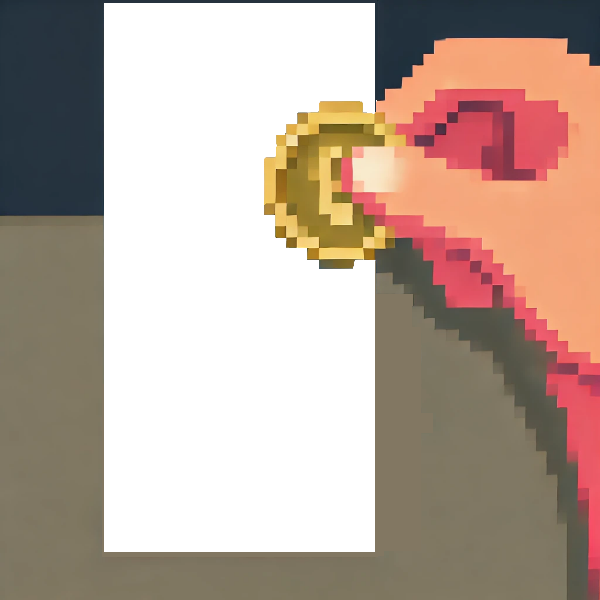
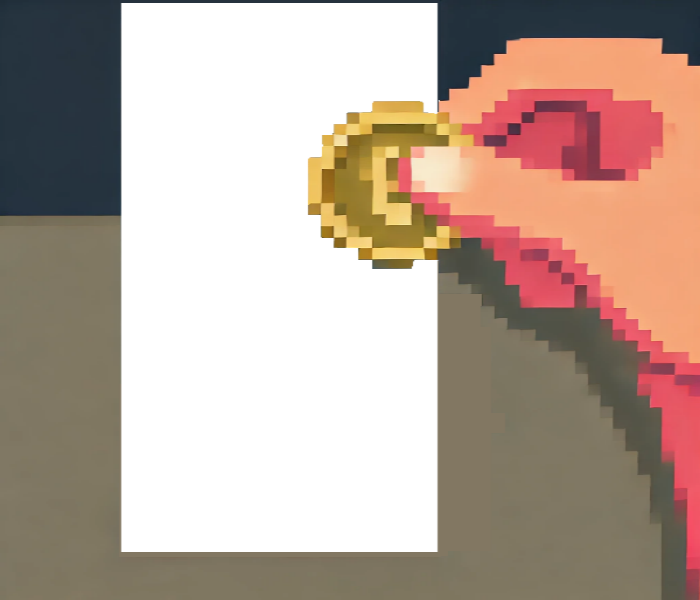
updates

diff --git a/internal/game.go b/internal/game.go
@@ -337,14 +337,14 @@ func (g *Game) drawScratchingTicket(screen *ebiten.Image) {
 	ticketAsset := TicketAssets[ticket.Name]
 
 	doptions := &ebiten.DrawImageOptions{}
-	doptions.GeoM.Scale(271/float64(ticketAsset.Bounds().Dx()), 549/float64(ticketAsset.Bounds().Dy()))
-	doptions.GeoM.Translate(105, 3)
+	doptions.GeoM.Scale(318/float64(ticketAsset.Bounds().Dx()), 549/float64(ticketAsset.Bounds().Dy()))
+	doptions.GeoM.Translate(120, 3)
 
 	asset.DrawImage(ticketAsset, doptions)
 	asset.DrawImage(scratchTicketAsset, &ebiten.DrawImageOptions{})
 
 	op := &ebiten.DrawImageOptions{}
-	op.GeoM.Translate(100, 100)
+	op.GeoM.Translate(50, 100)
 
 	screen.DrawImage(asset, op)
 }
